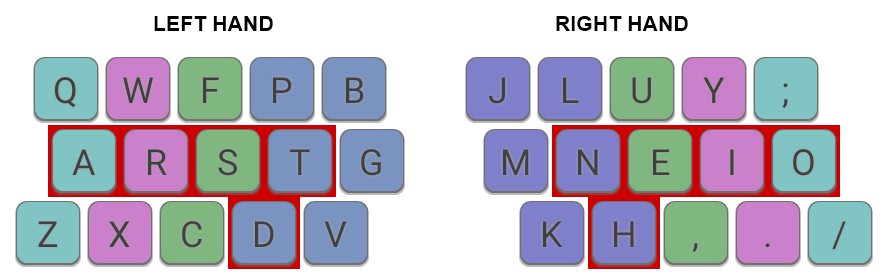
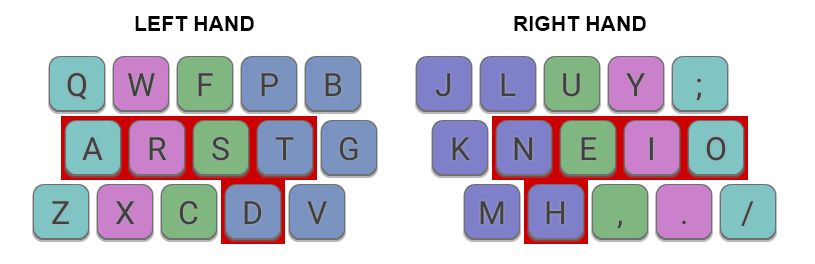
Update pagse to Mod-DH rev2

diff --git a/index.html b/index.html
@@ -57,10 +57,10 @@
 <p>Mod-DH is a minor modification to the <a href="http://colemak.com/">Colemak</a> keyboard layout, designed to make typing more comfortable.</p>
 
 <p class="caption"><img src="gfx/mod_dh_main.png"/><br/>
-Colemak with Mod-DH, shown for an ISO keyboard. Keys are colored according to the finger that should be used. The 10 most common English letters are assigned to the 10 easiest keys (highlighted in red).
+Colemak Mod-DH main keys, shown for an ISO keyboard. Keys are colored according to the finger that should be used. The 10 most common English letters are assigned to the 10 easiest keys (highlighted in red).
 </p>
 
-<p>Colemak is a great layout, but that doesn't mean it's impossible to improve on! The idea behind Mod-DH is that by making an adjustment to the placement of a small number of keys, it is possible to gain a significant improvement in ergonomics and comfort. See this <a href="./compare.html">comparison of Mod-DH</a> with other layouts.</p>
+<p>Colemak is a great layout, but that doesn't mean it's impossible to improve on! The idea behind Mod-DH is that by making an adjustment to the placement of a small number of keys, it is possible to gain a significant improvement in ergonomics and comfort. See this <a href="./compare.html">comparison of Mod-DH</a> with other layouts. There are separate <a href="#keyboard-types">implementations</a> optimized for ISO, ANSI and matrix keyboards.</p>
 
 <b>Highlights:</b>
 <ul>
@@ -71,12 +71,11 @@ Colemak with Mod-DH, shown for an ISO keyboard. Keys are colored according to th
 <li>No keys change fingers from standard Colemak, making it easy to adopt for existing Colemak users.</li>
 </ul>
 
-<p>The mod consists of two separate parts, the left-hand "D" change, and the right-hand "H" change. It is perfectly acceptable to apply the mod to one side of the keyboard only.
-</p>
-
 <p>The Colemak forum has threads containing some <a href="http://forum.colemak.com/viewtopic.php?id=1939">background information</a> to the creation of this mod, and also a <a href="http://forum.colemak.com/viewtopic.php?id=1942">more detailed discussion of it.</a></p>
 
 <h3><a name="colemak-changes" class="anchor" href="#colemak-changes"><span class="octicon octicon-link"></span></a>Changes From Colemak</h3>
+
+<p>The mod consists of two parts, the left-hand "D" change, and the right-hand "H" change.</p>
 
 <p class="caption"><img src="gfx/mod_dh_change_colemak.png"/><br/>
 Changed keys relative to standard Colemak. Note that none of the changes move keys to a new finger. This makes the mod easy to learn and also retains Colemak's excellent <a href="./compare.html#compare-results">stats</a> on same-finger bigrams.
@@ -92,16 +91,16 @@ Changed keys relative to standard Colemak. Note that none of the changes move ke
 <h4><a name="right-hand-changes" class="anchor" href="#right-hand-changes"><span class="octicon octicon-link"></span></a>Right Hand Changes</h4>
 
 <p>There is a minor change to the right hand:<br/>
-The H and M keys exchange places. This makes H easy to type, being the more common character than M. In addition, since HE is the second most common bigram in English, it makes it more comfortable to type very common words such as "the", "then", "where", etc.
+The H, M and K keys move. This makes H (the most frequent character of the three) easier to type. Since HE is the second most common bigram in English, it also makes it much more comfortable to type very common words such as "the", "then", "where", etc. The M key moves one space to the left, taking the next-best available spot.
 </p>
 
 <h3><a name="qwerty-changes" class="anchor" href="#qwerty-changes"><span class="octicon octicon-link"></span></a>Changes From Qwerty</h3>
 
 <p class="caption"><img src="gfx/mod_dh_change_qwerty.png"/><br/>
-Changed keys relative to Qwerty. If the left-hand (D) mod is applied only, 17 keys are moved, same as Standard Colemak. For the full mod, 19 keys are changed. In either case, there are 12 keys which change fingers, same as Colemak.
+Changed keys relative to Qwerty. In total, 19 keys are changed, plus the application of the Angle Mod to an additional 3. Of these, only 12 keys change fingers, same as Colemak.
 </p>
 
-<p>If you are currently using Qwerty and looking for a better layout, then both standard Colemak and Mod-DH are excellent choices. The change from Qwerty is not easy and can take some time, but is worthwhile in the end. If you start with Colemak but find the frequent reaching for D, H and G unsatisfactory, then Mod-DH is for you!
+<p>If you are currently using Qwerty and looking for a better layout, then both standard Colemak and Mod-DH are excellent choices. The change from Qwerty is not easy and can take some time, but is worthwhile in the end. If you start with Colemak but find the frequent reaching for D, H and G unsatisfactory, or find the common HE bigram uncomfortable, then Mod-DH is for you!
 </p>
 
 <h3><a name="colemak-problems" class="anchor" href="#colemak-problems"><span class="octicon octicon-link"></span></a>What's wrong with standard Colemak anyway?</h3>
@@ -113,9 +112,9 @@ Changed keys relative to Qwerty. If the left-hand (D) mod is applied only, 17 ke
 </p>
 
 <table>
-<tr> <td>             </td> <td> left</td> <td>right</td> <td> total</td> </tr>
-<tr> <td>Colemak      </td> <td>7.76%</td> <td>7.02%</td> <td>14.78%</td> </tr>
-<tr> <td>Mod-DH (full)</td> <td>4.49%</td> <td>3.31%</td> <td> 7.80%</td> </tr>
+<tr> <td>         </td> <td> left</td> <td>right</td> <td> total</td> </tr>
+<tr> <td>Colemak  </td> <td>7.76%</td> <td>7.02%</td> <td>14.78%</td> </tr>
+<tr> <td>Mod-DH   </td> <td>4.49%</td> <td>3.31%</td> <td> 7.80%</td> </tr>
 <caption>Usage of the centre-column keys for standard Colemak and Mod-DH</caption>
 </table>
 
@@ -131,13 +130,13 @@ The "Angle Mod" makes it possible to adopt a more comfortable typing posture by 
 
 <p>The Angle Mod is a good innovation, but in its default application it assigns the rare V to one of best locations on the keyboard. Mod-DH fixes this by assigning D to that key instead. An important feature of Mod-DH is that on standard keyboards, use of the Angle Mod idea is intrinsic to the layout design.</p>
 
-<h3><a name="variants" class="anchor" href="#variants"><span class="octicon octicon-link"></span></a>Variants</h3>
+<h3><a name="revision" class="anchor" href="#variants"><span class="octicon octicon-link"></span></a>Revisions</h3>
 
-DreymaR has created an alternative DH mod which moves fewer keys, and is suitable for standard staggered keyboards. For information, see the <a href="http://forum.colemak.com/viewtopic.php?pid=16151#p16151"><i>Curl-DH [DbgHk]</i></a> variant.
+<p>The original Mod-DH was launched in October 2014. Following feedback from users, a minor revision was been made in May 2017, switching the original M and K key positions. Users of Matrix boards may prefer to retain M on the home row.</p>
 
 <h3><a name="keyboard-types" class="anchor" href="#keyboard-types"><span class="octicon octicon-link"></span></a>Implementation on Keyboard Types</h3>
 
-<p>The mod works best on keyboards which have good support for the "Angle" mod i.e. ISO&nbsp;keyboards, and symmetric ergonomic keyboards. It can also be applied successfully to ANSI&nbsp;keyboards with an adjustment. Let me know if you have other suggestions for implementing on an ANSI keyboard.</p>
+<p>The mod works best on keyboards which have good support for the "Angle" mod i.e. ISO&nbsp;keyboards, and symmetric ergonomic keyboards. It can also be applied successfully to ANSI&nbsp;keyboards with an adjustment.</p>
 
 <p>There are some example layout files in the <a href="https://github.com/ColemakMods/mod-dh"><b>Downloads section</b></a>:<br/>
 - Windows:  files for use with <a href="http://msdn.microsoft.com/en-GB/goglobal/bb964665.aspx">Microsoft Keyboard Layout Creator</a>;<br/>
@@ -167,13 +166,13 @@ Colemak Mod-DH for an ANSI keyboard with an alternative home position. Keeps Z i
 </p>
 
 <p class="caption"><img src="gfx/mod_dh_keyb_ansi_shiftz.png"/><br/>
-Colemak Mod-DH for an ANSI keyboard using Left-Shift for Z. Here the Left-Alt key is redefined to act as Shift, which is accessed via the left thumb. This is arguably a superior position than the standard left shift. For more information see this page on <a href="http://colemakmods.github.io/ergonomic-mods/modifiers.html">optimizing modifier keys</a>.
+Colemak Mod-DH for an ANSI keyboard using Left-Shift for Z. Here the Right-Alt key is redefined to act as Shift, which is accessed via the left thumb. This is arguably a superior position than the standard shift. For more information see this page on <a href="http://colemakmods.github.io/ergonomic-mods/modifiers.html">optimizing modifier keys</a>.
 </p>
 
 <h4><a name="matrix-keyboards" class="anchor" href="#matrix-keyboards"><span class="octicon octicon-link"></span></a>Matrix/Ergonomic Keyboards</h4>
 
 <p class="caption"><img src="gfx/mod_dh_keyb_matrix.png"/><br/>
-Colemak Mod-DH for an idealized, non-staggered keyboard.
+Colemak Mod-DH for an idealized, non-staggered keyboard. Note, on this type of keyboard, it is recommended to assign M to the middle row, with directly K below.
 </p>
 
 <h3><a name="feedback-issues" class="anchor" href="#feedback-issues"><span class="octicon octicon-link"></span></a>Feedback / Issues</h3>

diff --git a/compare.html b/compare.html
@@ -76,20 +76,18 @@
 
 <table>
 <tr> <td></td> <td>base effort<br/>per key</td> <td>same-finger<br/>bigrams percentage</td> <td> same-finger<br/>penalty</td> <td> overall score<br/>effort per key</td> </tr>
-<tr> <td>Mod-DH (full) <a href="http://colemakmods.github.io/mod-dh/" target="new_win"><img src="gfx/open.png"/></a></td> 
-            <td>1.601</td> <td>1.52%</td> <td>0.040</td> <td>1.641</td> </tr>
-<tr> <td>Mod-DH (left) <a href="http://colemakmods.github.io/mod-dh/" target="new_win"><img src="gfx/open.png"/></a></td>
-			<td>1.643</td> <td>1.52%</td> <td>0.040</td> <td>1.683</td> </tr>
+<tr> <td><b>Mod-DH</b> <a href="http://colemakmods.github.io/mod-dh/" target="new_win"><img src="gfx/open.png"/></a></td> 
+            <td>1.600</td> <td>1.52%</td> <td>0.040</td> <td>1.635</td> </tr>
 <tr> <td>Workman <a href="http://www.workmanlayout.com/blog/" target="new_win"><img src="gfx/open.png"/></a></td>
 			<td>1.607</td> <td>2.97%</td> <td>0.078</td> <td>1.685</td> </tr>
 <tr> <td>MTGAP <a href="http://mtgap.bilfo.com/completed_keyboard.html" target="new_win"><img src="gfx/open.png"/></a></td>
 			<td>1.650</td> <td>1.57%</td> <td>0.040</td> <td>1.690</td> </tr>
 <tr> <td>Colemak <a href="http://colemak.com/" target="new_win"><img src="gfx/open.png"/></a></td> 
 			<td>1.684</td> <td>1.52%</td> <td>0.040</td> <td>1.724</td> </tr>
-<tr> <td>Asset <a href="http://millikeys.sourceforge.net/asset/" target="new_win"><img src="gfx/open.png"/></a></td>
-			<td>1.715</td> <td>2.98%</td> <td>0.079</td> <td>1.794</td> </tr>
 <tr> <td>Norman <a href="https://normanlayout.info/" target="new_win"><img src="gfx/open.png"/></a></td>
 			<td>1.612</td> <td>6.38%</td> <td>0.166</td> <td>1.778</td> </tr>
+<tr> <td>Asset <a href="http://millikeys.sourceforge.net/asset/" target="new_win"><img src="gfx/open.png"/></a></td>
+			<td>1.715</td> <td>2.98%</td> <td>0.079</td> <td>1.794</td> </tr>
 <tr> <td>qgmlwyfub <a href="http://mkweb.bcgsc.ca/carpalx/?full_optimization" target="new_win"><img src="gfx/open.png"/></a></td>
 			<td>1.729</td> <td>4.58%</td> <td>0.116</td> <td>1.845</td> </tr>
 <tr> <td>Qwpr <a href="http://sourceforge.net/projects/qwpr/" target="new_win"><img src="gfx/open.png"/></a></td>
@@ -109,6 +107,10 @@
 
 <p>For a consideration of how easy or difficult the various layouts are to learn, take a look at the <a href="learn.html">Difficulty Index</a> comparison.</p>
 
+<h3><a name="notes" class="anchor" href="#notes"><span class="octicon octicon-link"></span></a>Notes</h3>
+
+<p><a class="anchor" href="#notes">¹</a> Statistics are generated using a corpus which comprises a variety of books from Project Guttenberg, the same as used by <a href="http://mkweb.bcgsc.ca/carpalx/?keyboard_statistics">carpalx</a>.
+</p>
 
       </section>
 	  <!--

diff --git a/analyze.html b/analyze.html
@@ -71,10 +71,6 @@ Possible key-finger configurations for the left hand. Keys indicated with the sa
 <img src="gfx/fingers.png" class="center"/>
 </p>
 
-<h3><a name="notes" class="anchor" href="#notes"><span class="octicon octicon-link"></span></a>Notes</h3>
-
-<p><a class="anchor" href="#notes">¹</a> Statistics are generated using a corpus which comprises a variety of books from Project Guttenberg, the same as used by <a href="http://mkweb.bcgsc.ca/carpalx/?keyboard_statistics">carpalx</a>.
-</p>
 
       </section>
 	  <!--
